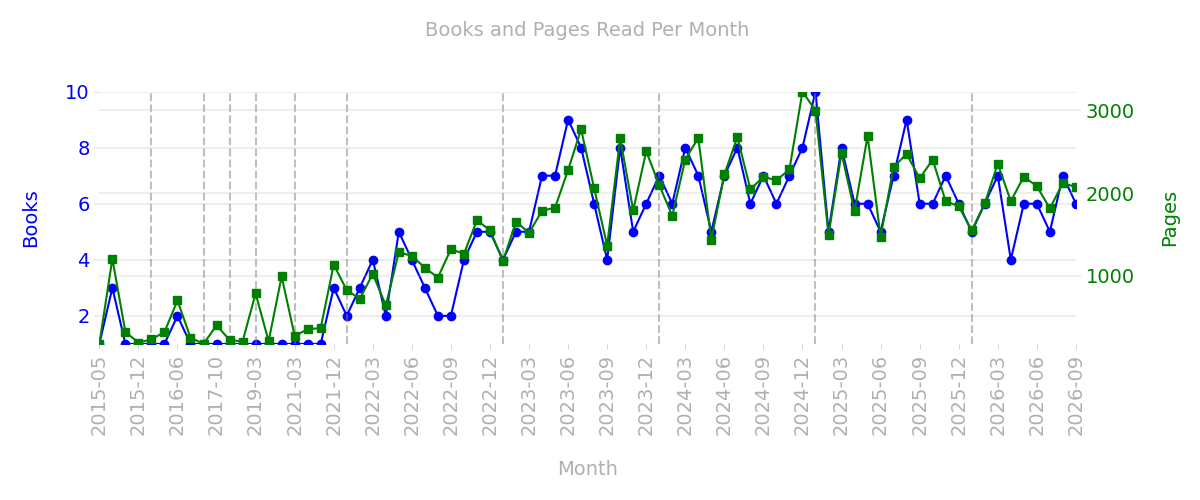
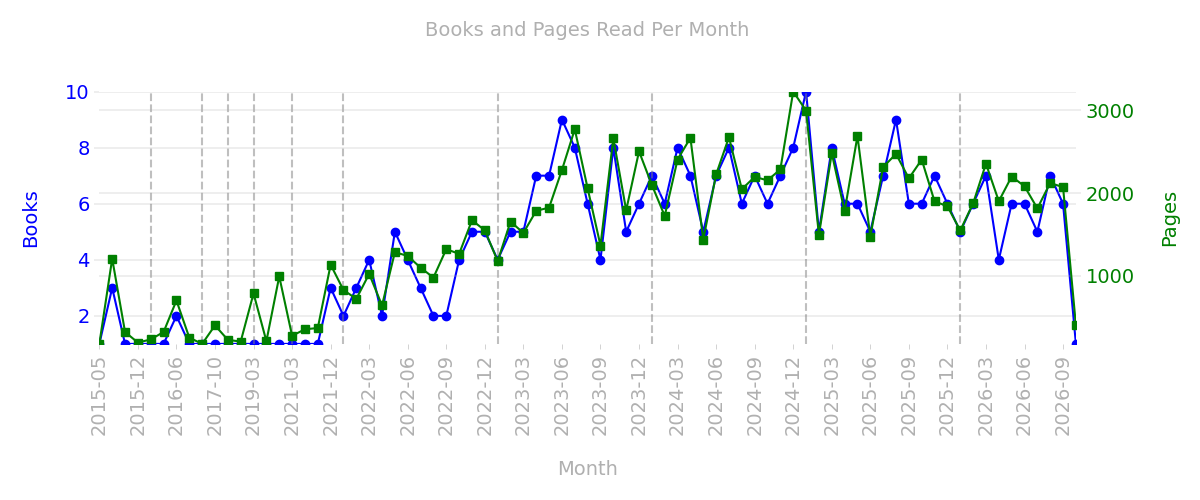
administrative behavior

diff --git a/Views/Books_2026.md b/Views/Books_2026.md
@@ -1,6 +1,6 @@
 # Books Read in 2026
 
-**Total: 52 books**
+**Total: 53 books**
 
 ### Incorruptible: Why Good Companies Go Bad and How Great Companies Stay Great
 **Author:** Eric Ries  
@@ -913,6 +913,23 @@ The result is a book that is both highly accessible and profound in its importan
 ![[covers/Torupill ja nuga Alverite saaga.webp|150]]  
 
 Tükike Eesti ajalugu pajatatuna läbi ühe suguvõsa loo annab kordumatu vaate omavahel seotud elukäikudele, inimestele sündmuskeeristes ning sündmusi ja elamusi algatavatele isiksustele. Alverite suguvõsa alguse saab paigutada 17. sajandi keskpaika Tarvastu kihelkonnas – Alvre tallu. Tarvastus algatati Aleksandrikooli mõte, siin võeti osa kõikidest olulistest poliitilistest ja kultuurilistest sündmustest. Alverid ei ole oma tegevuse ja elukutsetega püsinud kitsalt ühes valdkonnas, vaid hargnenud pea igasse suunda – talurahva hulgast koolmeistriks, kunsti ja kirjandusse, poliitikasse ja tööstusesse. See on kolmsada aastat vana kogum inimesi, millel on hoomatav identiteet ja panus ajaloos. Nõnda on suguvõsa mitte ainult geneetiline, vaid ka sotsiaalne, kultuuriline ja ajalooline nähtus. Hõimlaste kaudu on perekonnanimed muutunud, kuid sellesse kuuluvad Printsmannid, Laasid, Ripsid, Madisted, Õmblused, Kallased ja paljud teised.
+
+---
+
+### Administrative Behavior
+**Author:** Herbert A. Simon  
+**Published:** 2013  
+**Finished:** 2026-10  
+**Rating:** ⭐⭐⭐⭐  
+**Pages:** 402  
+
+![[covers/Administrative Behavior.jpg|150]]  
+
+In this fourth edition of his ground-breaking work, Herbert A. Simon applies his pioneering theory of human choice and administrative decision-making to concrete organizational problems. To commemorate the fiftieth anniversary of the book's original publication, Professor Simon enhances his timeless observations on the human decision-making process with commentaries examining new facets of organizational behavior. Investigating the impact of changing social values and modem technology on the operation of organizations, the new ideas featured in this revised edition update a book that has become a worldwide classic.
+
+
+
+Named by Public Administration Review as "Book of the Half Century," Administrative Behavior is considered one of the most influential books on social science thinking, and was referred to by the Nobel Committee as "epoch-making."
 
 ---
 

diff --git a/Library/Administrative Behavior.md b/Library/Administrative Behavior.md
@@ -1,0 +1,56 @@
+---
+type: book
+title: "Administrative Behavior"
+author: "Herbert A. Simon"
+
+isbn13: "9781439136065"
+year_published: 2013
+
+date_started: ""
+date_finished: "2026-10-04"
+
+year_finished: 2026
+month_finished: "2026-10"
+
+rating: 4
+format: "ebook"
+pages: 402
+language: "en"
+
+tags:
+  - book
+
+cover: "covers/Administrative Behavior.jpg"
+---
+
+
+```dataviewjs
+if (dv.current().cover) { dv.paragraph("![[" + dv.current().cover + "]]"); }
+```
+
+# `= this.title`
+**Author:** `= this.author`
+
+---
+
+## 📝 My description
+In this fourth edition of his ground-breaking work, Herbert A. Simon applies his pioneering theory of human choice and administrative decision-making to concrete organizational problems. To commemorate the fiftieth anniversary of the book's original publication, Professor Simon enhances his timeless observations on the human decision-making process with commentaries examining new facets of organizational behavior. Investigating the impact of changing social values and modem technology on the operation of organizations, the new ideas featured in this revised edition update a book that has become a worldwide classic.
+
+Named by Public Administration Review as "Book of the Half Century," Administrative Behavior is considered one of the most influential books on social science thinking, and was referred to by the Nobel Committee as "epoch-making."
+
+---
+
+## 💡 Key ideas / quotes
+
+
+---
+
+## 🔁 Would I reread?
+- [ ] Yes
+- [x] No
+- [ ] Parts only
+
+---
+
+## ⭐ Final verdict
+
